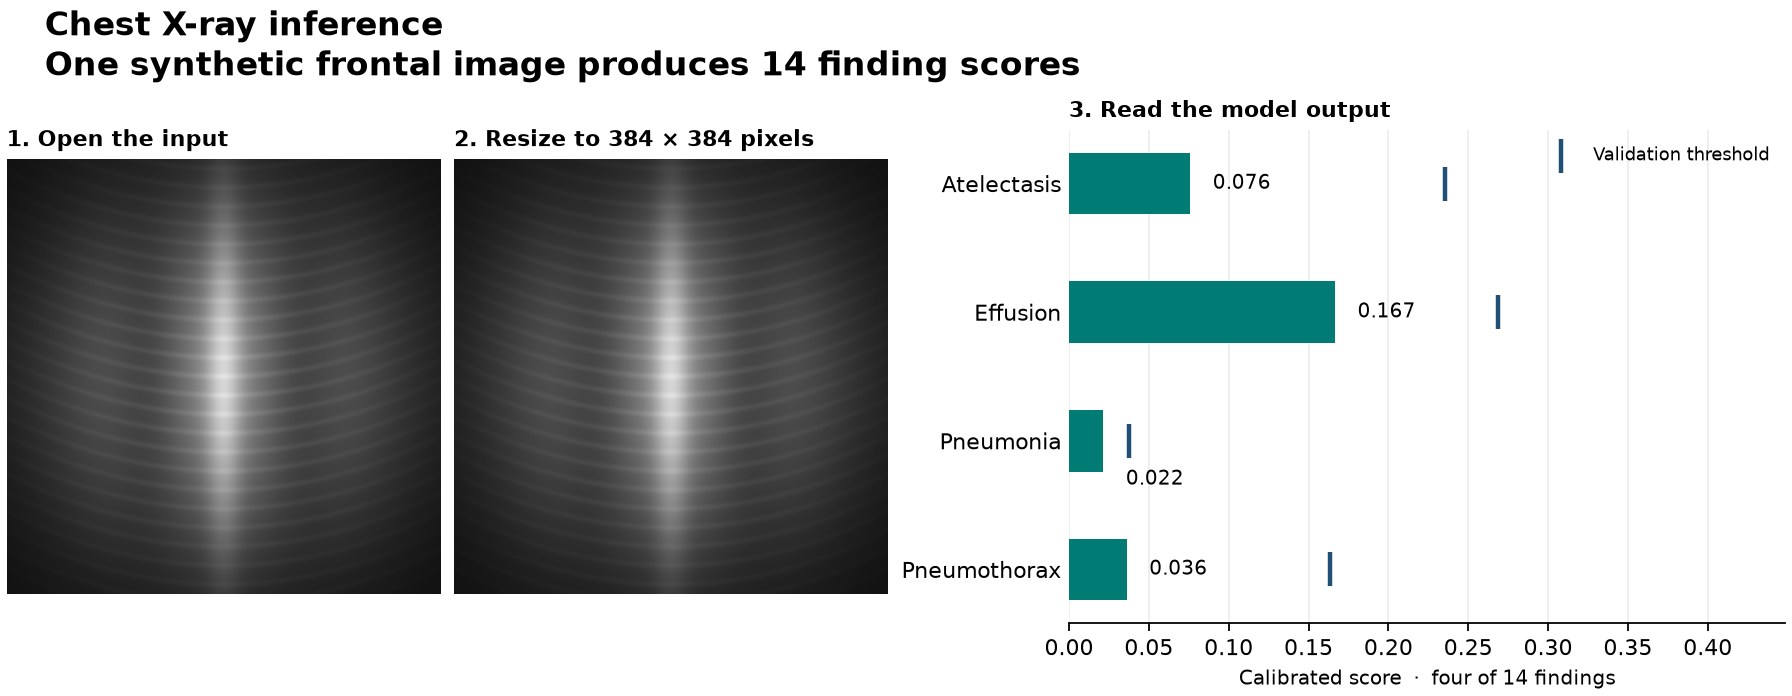
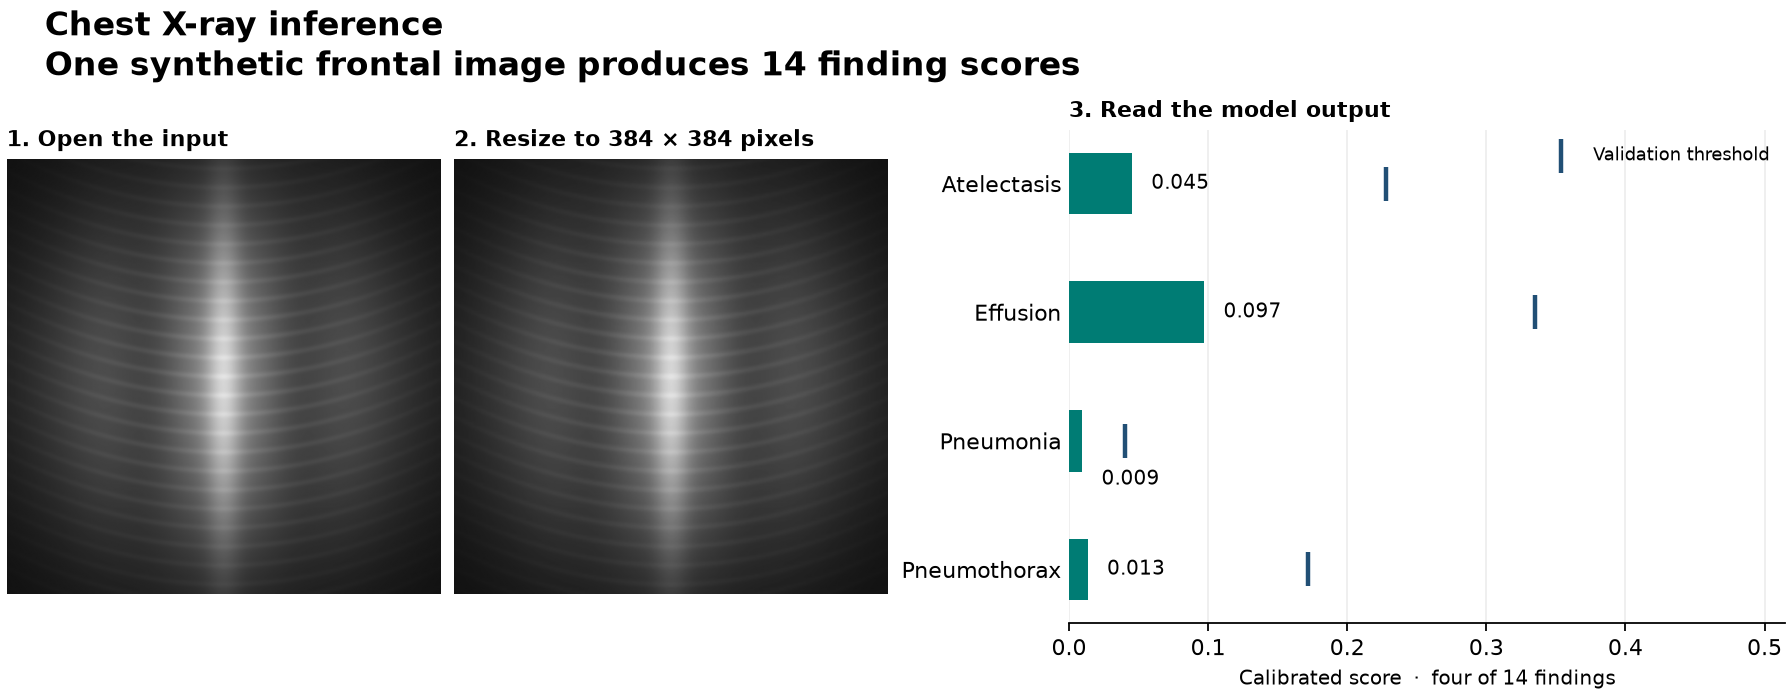
Publish the ConvNeXt official test and prediction example

diff --git a/RESEARCH.md b/RESEARCH.md
@@ -21,7 +21,7 @@ The patient-linked duplicate groups were detected by the project's exact-pixel a
 
 The BioViL-T image backbone learned from chest X-rays in MIMIC-CXR. This project transfers its single-image ResNet-50 and fits two scoring heads on NIH training images. One summarizes the whole image. The other scores local evidence for each finding and highlights strong regions in the final ranking score. Both run on the full frontal image. [BioViL-T model card and training data](https://huggingface.co/microsoft/BiomedVLP-BioViL-T)
 
-## The selected model and official test result
+## The BioViL-T model and its official test result
 
 The BioViL-T branch reached **0.8398 validation AUROC** in epoch 3 of 5. Selection compared 269 recipes on the same validation split. The winner combines BioViL-T and the reference at 75% and 25%, with **0.8468 validation AUROC**. The ensemble weights and calibration were locked before test scoring.
 
@@ -37,7 +37,7 @@ The 95% patient-bootstrap AUROC interval is **0.8039–0.8161**. The paired AURO
 
 ![Finding-by-finding AUROC on the official test](figures/biovil-compare.png)
 
-## Reproduce the selected model
+## Reproduce the BioViL-T model
 
[1 lines of base64/hex data omitted]
 
@@ -73,9 +73,29 @@ I compared 372 recipes on **10,411 validation X-rays in 3,361 duplicate-aware pa
 | Equal blend of reference, BioViL-T, and ConvNeXt | **0.8524** | **0.2813** |
 | Best cross-fitted weighting per finding | 0.8509 | 0.2776 |
 
-The per-finding weights fell short on both metrics. The equal-weight blend proceeds to official test scoring. The completed official test result reported above is **0.8103** for the earlier BioViL-T blend.
+The per-finding weights fell short on both metrics. I froze the equal-weight blend and its calibration before scoring the official test.
 
[1 lines of base64/hex data omitted]
+## Official test result with ConvNeXt
+
+| Metric on the same 25,596 test images | BioViL-T blend | BioViL-T + ConvNeXt blend |
+| --- | ---: | ---: |
+| Macro AUROC | 0.8103 | **0.8171** |
+| Macro average precision | 0.2804 | **0.2929** |
+| Macro Brier score, lower is better | 0.0573 | **0.0567** |
+| Pneumonia AUROC | 0.7145 | **0.7203** |
+| Infiltration AUROC | 0.7129 | **0.7199** |
+| Emphysema AUROC | 0.9043 | **0.9185** |
+| Edema AUROC | **0.8593** | 0.8568 |
+
+The patient-bootstrap 95% AUROC interval is **0.8107–0.8227**. Paired resampling of **2,797 patient groups** gives an AUROC gain of **+0.0068**, with a 95% interval of **+0.0054 to +0.0083**. Average precision increased by **+0.0125**, with a 95% interval of **+0.0082 to +0.0165**.
+
+AUROC improved for 13 of the 14 findings. Pneumonia and infiltration are still the two lowest-scoring findings. The project has tested multiple fixed recipes against the same official images. An independent cohort is needed to measure transfer across sites.
+
+![Finding-level test AUROC for both BioViL-T ensembles](figures/convnext-comparison.png)
+
+## Reproduce the ConvNeXt model and paired comparison
+
[1 lines of base64/hex data omitted]
 
 ```powershell
 $convnext = 'D:/weights/convnextv2-tiny.safetensors'
@@ -85,6 +105,20 @@ $convnextEvaluation = "$experiment/evaluation/chest-convnext224-lock"
     --output "$experiment/runs/chest-convnext224" --epochs 4 --batch 32 --accumulate 2 `
     --resolution 224 --depth 2 --lr 0.00016 --head-lr 0.0005 --class-power 0.29 `
     --dropout 0.28 --seed 5251 --block 2048 --tta
+
+$convnextPaths = @('--work', $experiment, '--previous', $search, '--cohort', $cohort, '--output', $convnextEvaluation)
+& $p -m medimage.auc_selection lock chest @convnextPaths `
+    --candidate 'chex224=runs/chest-chex224@previous-chest224' `
+    --candidate 'reference384=runs/chest-reference384@chest384' `
+    --candidate 'fusion-1=runs/chest-feature-fusion/recipe-1@previous-chest224' `
+    --candidate 'fusion-2=runs/chest-feature-fusion/recipe-2@previous-chest224' `
+    --candidate 'fusion-3=runs/chest-feature-fusion/recipe-3@previous-chest224' `
+    --candidate 'biovil384=runs/chest-biovil-384@chest384' `
+    --candidate 'convnext224=runs/chest-convnext224@previous-chest224'
+& $p -m medimage.auc_selection test chest @convnextPaths --weights $hf --bootstrap 1000
+& $p -m medimage.auc_compare --cohort $cohort --reference $evaluation --candidate $convnextEvaluation `
+    --output "$convnextEvaluation/paired-biovil.json" --figure "$convnextEvaluation/convnext-comparison.png" `
+    --reference-name 'BioViL-T blend' --candidate-name 'BioViL-T + ConvNeXt blend'
 ```
 
 After selection, run the grouped weighting experiment with the saved model scores.

diff --git a/WALKTHROUGH.md b/WALKTHROUGH.md
@@ -1,6 +1,6 @@
 # Follow one chest X-ray prediction
 
-A single frontal image goes through two scoring pipelines. The final model reports a score for each of 14 findings. The image below is a generated pattern and the scores came from the same model used for the reported benchmark.
+A single frontal image goes through three scoring pipelines. The final model reports a score for each of 14 findings. The image below is a generated pattern and the scores came from the same model used for the reported benchmark.
 
 ![Synthetic chest X-ray, its resized input and four of the model's finding scores](examples/workflow.png)
 
@@ -10,20 +10,20 @@ A single frontal image goes through two scoring pipelines. The final model repor
 
 ## 2. Prepare and score the image
 
-The BioViL-T branch resizes the image to 384 × 384 pixels and combines whole-image evidence with a branch that scores smaller areas. The reference uses the previously trained system. The locked model weights the two raw scores, or **logits**, at **75% BioViL-T** and **25% reference** for each finding. Validation fits the conversion from these scores to calibrated values.
+The BioViL-T branch reads the image at 384 × 384 pixels and combines whole-image evidence with a branch that scores smaller areas. The ConvNeXt branch reads a 224 × 224 version. The third component is the earlier reference system. The selected model gives the three raw scores, or **logits**, equal weight for each finding. The probability conversion and thresholds are fitted on validation.
 
-For effusion, the weighted logit is **−1.5426**, the calibrated score is **0.1667** and the validation threshold is **0.2686**. The JSON therefore gives `threshold_crossed: false` for this finding on the synthetic input. [All 14 scores](examples/biovil-ensemble.json) · [Component and calibration trace](examples/frontal-trace.json) · [Where blur changed the model score](WHERE-THE-MODEL-LOOKS.md)
+In the example, the three effusion logits average to **−2.2141**. After calibration the score is **0.0971**. The validation threshold is **0.3349**, so the example returns `threshold_crossed: false`. [All 14 scores](examples/convnext-ensemble.json) · [Component and calibration trace](examples/frontal-trace.json) · [Where blur changed BioViL-T's score](WHERE-THE-MODEL-LOOKS.md)
 
 ## 3. Run and check the example
 
-Use `$p`, `$experiment`, `$search`, `$hf` and `$evaluation` from the [BioViL-T workflow](RESEARCH.md#reproduce-the-selected-model). Run the commands below from the repository root.
+Use `$p`, `$experiment`, `$search`, `$hf` and `$convnextEvaluation` from the [ConvNeXt workflow](RESEARCH.md#reproduce-the-convnext-model-and-paired-comparison). Run the commands below from the repository root.
 
 ```powershell
-& $p -m medimage.auc_predict --selection "$evaluation/selection.json" --work $experiment `
+& $p -m medimage.auc_predict --selection "$convnextEvaluation/selection.json" --work $experiment `
     --previous $search --original artifacts --weights $hf --image examples/phantom.png `
-    --output "$evaluation/phantom.json" --trace "$evaluation/phantom-trace.json"
+    --output "$convnextEvaluation/phantom.json" --trace "$convnextEvaluation/phantom-trace.json"
 & $p -m medimage.workflow_figure chest --examples examples `
-    --trace "$evaluation/phantom-trace.json" --output "$evaluation/phantom-workflow.png"
+    --trace "$convnextEvaluation/phantom-trace.json" --output "$convnextEvaluation/phantom-workflow.png"
 ```
 
 Open the output and compare two findings. Each has its own threshold. Check that there are exactly 14 entries and that every calibrated score lies between 0 and 1. Freshly trained weights can produce different values.
@@ -37,4 +37,4 @@ Open the output and compare two findings. Each has its own threshold. Check that
 | A high validation score leads to a poor test choice | Freeze the selected ensemble and thresholds before scoring the official test |
 | A rare finding can have high AUROC with many false positives | Report average precision and per-finding results as well |
 
-The locked ensemble reached **0.8103 macro AUROC** and **0.2804 macro average precision** across 25,596 official test radiographs. AUROC describes ranking. Average precision reflects the tradeoff between finding positive examples and keeping predicted positives reliable. The model ranked emphysema better than pneumonia, and the labels were derived from radiology reports. [Full benchmark report](RESEARCH.md)
+The locked ensemble reached **0.8171 macro AUROC** and **0.2929 macro average precision** across 25,596 official test radiographs. AUROC describes ranking. Average precision reflects the tradeoff between finding positive examples and keeping predicted positives reliable. The model ranked emphysema better than pneumonia, and the labels were derived from radiology reports. [Full benchmark report](RESEARCH.md)

diff --git a/README.md b/README.md
@@ -2,21 +2,21 @@
 
 Group-aware training and calibrated prediction for 14 findings on frontal chest radiographs.
 
-**0.8103 macro AUROC** and **0.2804 macro average precision** on 25,596 official test images. The 95% patient-bootstrap AUROC interval is 0.8039–0.8161.
+**0.8171 macro AUROC** and **0.2929 macro average precision** on 25,596 official test images. The 95% patient-bootstrap AUROC interval is 0.8107–0.8227.
 
-The [BioViL-T experiment](RESEARCH.md) documents the latest validation ranking, paired test comparison and reproducibility. The [earlier high-resolution experiment](AUROC.md) reached 0.8025. [Original model search](REPORT.md) · [Search trajectories](figures/search.png)
+The [BioViL-T and ConvNeXt report](RESEARCH.md) documents the validation ranking, paired test comparison and reproduction steps. The [earlier high-resolution experiment](AUROC.md) reached 0.8025. [Original model search](REPORT.md) · [Search trajectories](figures/search.png)
 
 ## Start with one prediction
 
-See how a synthetic chest X-ray becomes 14 finding scores. The [walkthrough](WALKTHROUGH.md) follows the image through both models, explains the thresholds and shows how to check the output locally. [See which regions changed its effusion score](WHERE-THE-MODEL-LOOKS.md)
+See how a synthetic chest X-ray becomes 14 finding scores. The [walkthrough](WALKTHROUGH.md) follows the image through the three model components, explains the thresholds and shows how to check the output locally. [See which regions changed its effusion score](WHERE-THE-MODEL-LOOKS.md)
 
 ![One example chest X-ray, its resized input and four prediction scores](examples/workflow.png)
 
 ## Benchmark
 
-![Aggregate AUROC across three locked experiments](figures/auroc-summary.png)
+![Finding-level AUROC with and without the ConvNeXt branch](figures/convnext-comparison.png)
 
-The figure summarizes the earlier experiments. The new comparison and its patient-bootstrap interval are reported in the [research report](RESEARCH.md).
+The paired change in macro AUROC was +0.0068. [See the confidence intervals and earlier experiments](RESEARCH.md#official-test-result-with-convnext)
 
 ## Dataset
 
@@ -65,10 +65,10 @@ The runner writes the initial experiment under `artifacts/` and the extended sea
 
 ## Predict from raw input
 
-Use the [BioViL-T workflow](RESEARCH.md#reproduce-the-selected-model) to prepare the selected ensemble and its validation lock.
+Use the [ConvNeXt workflow](RESEARCH.md#reproduce-the-convnext-model-and-paired-comparison) to prepare the selected ensemble and its validation lock.
 
 ```powershell
-& $p -m medimage.auc_predict --selection "$evaluation/selection.json" --work $experiment --previous $search --original artifacts --weights $hf --image 'C:/images/frontal.png' --output "$evaluation/chest-prediction.json"
+& $p -m medimage.auc_predict --selection "$convnextEvaluation/selection.json" --work $experiment --previous $search --original artifacts --weights $hf --image 'C:/images/frontal.png' --output "$convnextEvaluation/chest-prediction.json"
 ```
 
 The [example](examples/README.md) runs the selected local models on deterministic synthetic inputs. This is a research and education project.

diff --git a/examples/README.md b/examples/README.md
@@ -1,6 +1,6 @@
 # Synthetic prediction example
 
-The shared engine generates the input as a deterministic mathematical pattern. The [current BioViL-T ensemble response](biovil-ensemble.json) gives 14 calibrated scores and their validation thresholds. For effusion, the synthetic score is 0.1667 with a threshold of 0.2686. [See where the effusion component responded](../WHERE-THE-MODEL-LOOKS.md)
+The shared engine generates the input as a deterministic mathematical pattern. The [current BioViL-T and ConvNeXt response](convnext-ensemble.json) gives 14 calibrated scores and their validation thresholds. For effusion, the synthetic score is 0.0971 with a threshold of 0.3349. [See where the BioViL-T component responded](../WHERE-THE-MODEL-LOOKS.md)
 
 ![Synthetic input phantom.png](phantom.png)
 

diff --git a/AUROC.md b/AUROC.md
@@ -1,6 +1,6 @@
 # High-resolution chest X-ray experiment
 
-This report covers the earlier 0.8025 ensemble. The [BioViL-T follow-up](RESEARCH.md) reached 0.8103 on the same official test.
+This report covers the earlier 0.8025 ensemble. The [BioViL-T and ConvNeXt follow-up](RESEARCH.md) reached 0.8171 on the same official test.
 
 ![Aggregate AUROC across three locked experiments](figures/auroc-summary.png)
 
